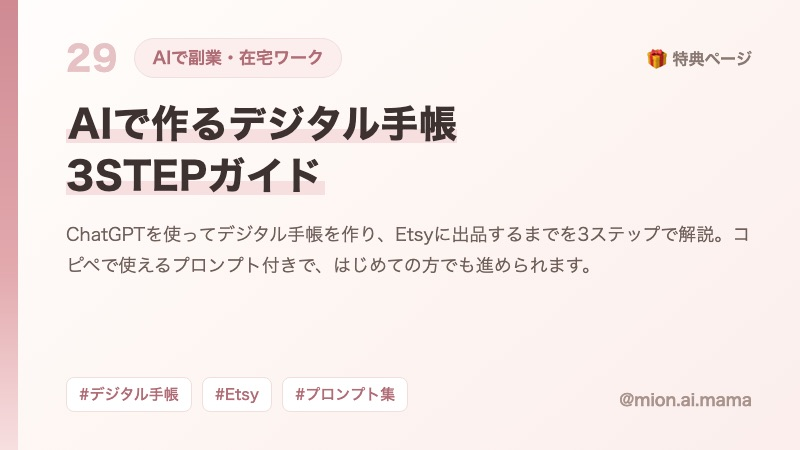
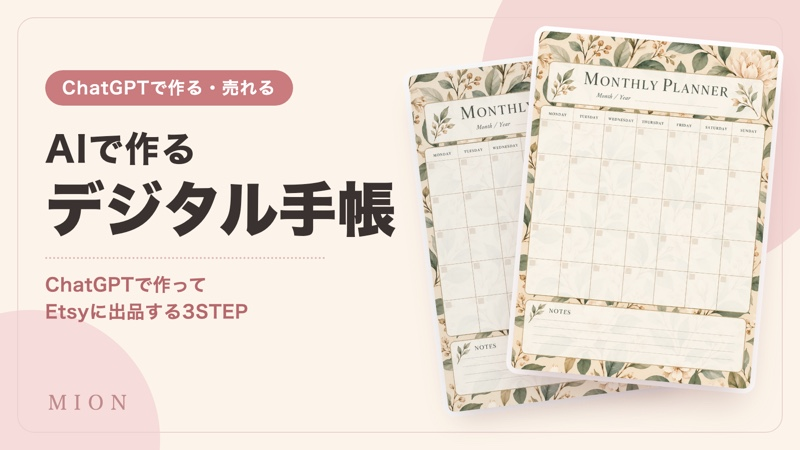
No.29のサムネイルを実物の手帳画像を使ったバナーに差し替え

diff --git a/js/presents.js b/js/presents.js
@@ -25,7 +25,6 @@ const PRESENTS = [
   // ============================================================
   {
     id: "digital-planner-tokuten",
-    thumbAuto: true, // サムネイルは gen-thumb.js で自動生成
     number: "29",
     type: "page",
     category: "AIで副業・在宅ワーク",
@@ -35,7 +34,7 @@ const PRESENTS = [
       "ChatGPTを使ってデジタル手帳を作り、Etsyに出品するまでを3ステップで解説。コピペで使えるプロンプト付きで、はじめての方でも進められます。",
     tags: ["デジタル手帳", "Etsy", "プロンプト集"],
     url: "https://mion-ai-mama.github.io/digital-planner-tokuten/",
-    image: "assets/thumbs/digital-planner-tokuten.jpg?v=3a95e8be",
+    image: "assets/thumbs/digital-planner-tokuten.jpg?v=50d300ef",
   },
   {
     id: "line-emoji-tokuten",
